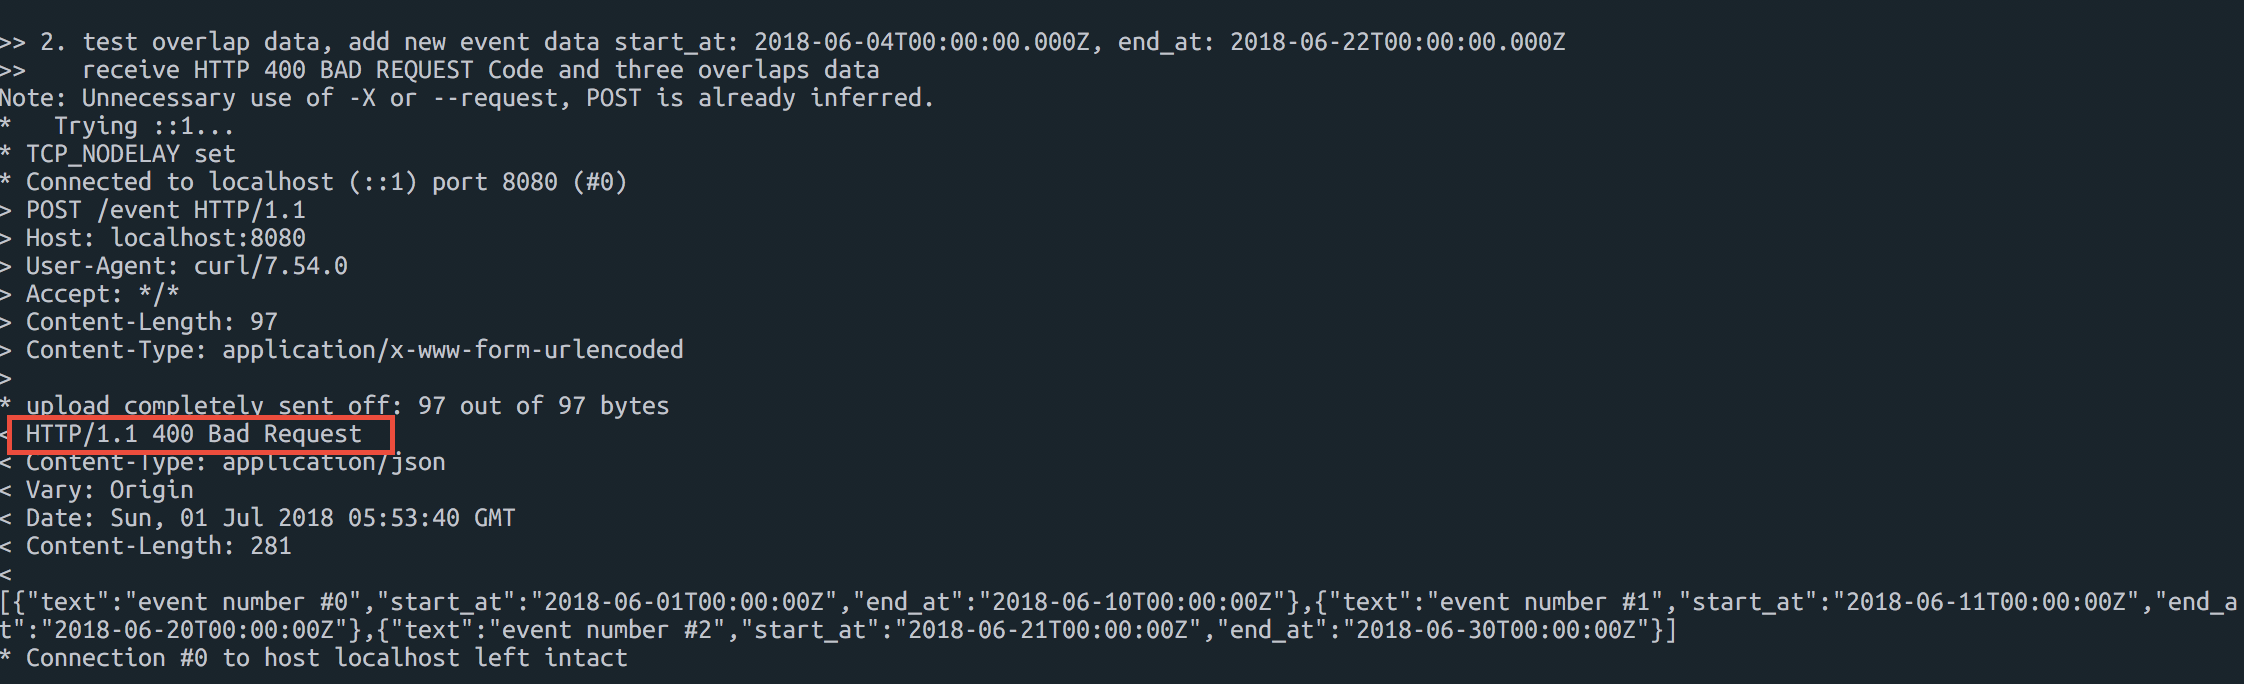
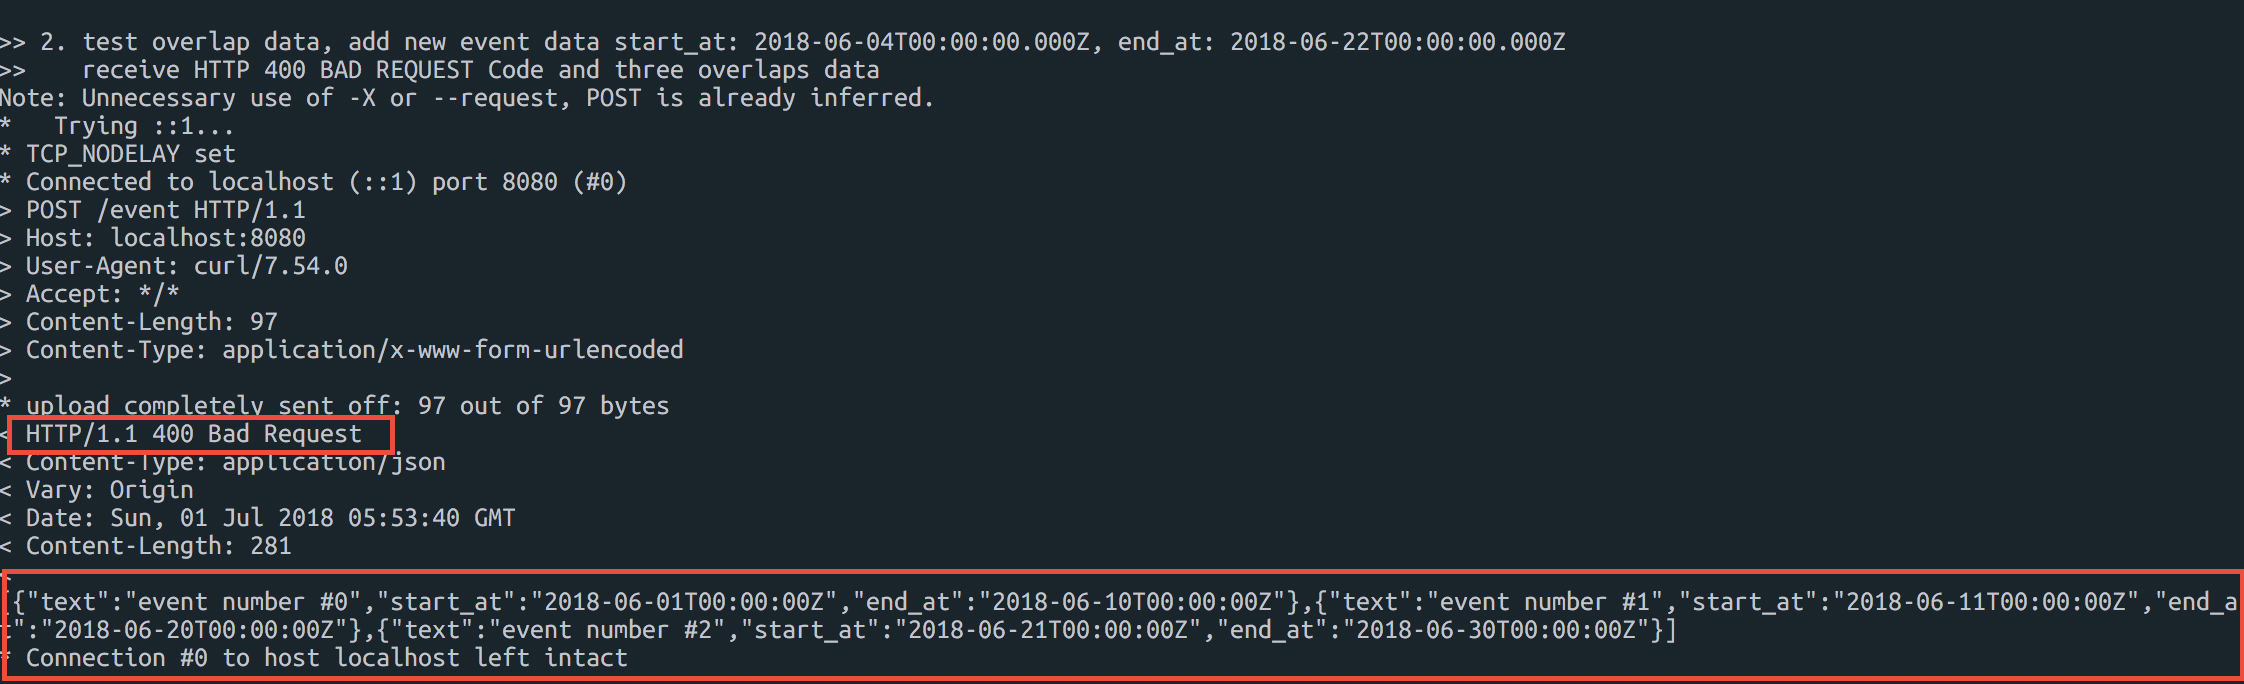
add images

Changed region(s): [[0.0, 0.8289, 1.0, 1.0]]

diff --git a/README.md b/README.md
@@ -18,14 +18,16 @@
     $ cd kira
     $ docker-compose up -d --build
     $ docker ps  (*check run this project well)
-
+    ![]()  
+    
     for add a new event data> 
     ex) $ curl localhost:8080/event -d '{"text":"Awesome Kira", "start_at":"2019-01-01T00:00:00Z", "end_at": "2019-01-10T00:00:00Z"}' -X POST -v  
 
     * you can receive HTTP 200 code success when there is no overlap data
-
+    ![]()  
 
     * if you try abow curl again, you can receive HTTP 400 code Bad request(there is overlap data) and overlap data.
+    ![]()  
 
     for test> 
         * use testwithCurl.sh(like live test)
